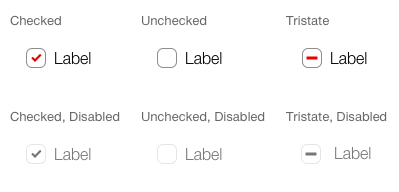
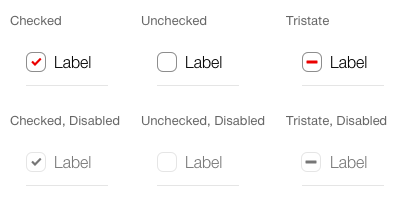
fix checkbox

diff --git a/documentation/elements/checkbox/checkbox-de.md b/documentation/elements/checkbox/checkbox-de.md
@@ -10,6 +10,8 @@
 *   Horizontale Anordnung nur bei zwei bis drei Auswahlmöglichkeiten und kurzen Bezeichnungen.
 *   Der Text kann mehrzeilig sein.
 *   Nebst der eigentlich Checkbox dient auch der gesamte Text als Click-Target.
+* Checkboxen werden immer mit einer Form-Group (Link) gruppiert und sind somit immer auf einem weissen Hintergrund gesetzt.
+* Das letzte Element (Checkbox, volle Breite) innerhalb einer Form-Group hat jeweils keinen Boarder.
 
 ## 4. Ausprägungen und Zustände
 Das Element hat folgende Zustände:
@@ -31,60 +33,48 @@ Das Element hat folgende Ausprägungen:
 ![Darstellung der Checkboxen, volle Breite, default](https://raw.githubusercontent.com/sbb-design-systems/design-system-mobile-documentation/redesign/documentation/elements/checkbox/images/Checkbox_full_width_default.png 'class: image')
 
 ##### Design Spezifikation
-*   [Checked](https://sbb.invisionapp.com/d/main#/console/14051805/313166979/inspect)
-*   [Unchecked](https://sbb.invisionapp.com/d/main#/console/14051805/313166980/inspect)
-*   [Tristate](https://sbb.invisionapp.com/d/main#/console/14051805/313166981/inspect)
-*   [Disabled Checked](https://sbb.invisionapp.com/d/main#/console/14051805/313166979/inspect)
-*   [Disabled Unchecked](https://sbb.invisionapp.com/d/main#/console/14051805/313166980/inspect)
-*   [Disabled Tristate](https://sbb.invisionapp.com/d/main#/console/14051805/313166981/inspect)
+*   [Checked](https://sketch.cloud/s/g5ejr/a/KOGGby#Inspector)
+*   [Unchecked](https://sketch.cloud/s/g5ejr/a/A7qwJ1#Inspector)
+*   [Tristate](https://sketch.cloud/s/g5ejr/a/0EqeGW#Inspector)
+*   [Disabled Checked](https://sketch.cloud/s/g5ejr/a/l0jqA7#Inspector)
+*   [Disabled Unchecked](https://sketch.cloud/s/g5ejr/a/kA9wVl#Inspector)
+*   [Disabled Tristate](https://sketch.cloud/s/g5ejr/a/ooZy80#Inspector)
 
 
 #### 4.1.2 Ohne Icon (vor Label)
 ![Darstellung der Checkboxen, volle Breite, ohne Icon](https://raw.githubusercontent.com/sbb-design-systems/design-system-mobile-documentation/redesign/documentation/elements/checkbox/images/Checkbox_full_width_without_icon.png 'class: image')
 
 ##### Design Spezifikation
-*   [Checked](https://sbb.invisionapp.com/d/main#/console/14051805/313166979/inspect)
-*   [Unchecked](https://sbb.invisionapp.com/d/main#/console/14051805/313166980/inspect)
-*   [Tristate](https://sbb.invisionapp.com/d/main#/console/14051805/313166981/inspect)
-*   [Disabled Checked](https://sbb.invisionapp.com/d/main#/console/14051805/313166979/inspect)
-*   [Disabled Unchecked](https://sbb.invisionapp.com/d/main#/console/14051805/313166980/inspect)
-*   [Disabled Tristate](https://sbb.invisionapp.com/d/main#/console/14051805/313166981/inspect)
+*   [Checked](https://sketch.cloud/s/g5ejr/a/RkEQle#Inspector)
+*   [Unchecked](https://sketch.cloud/s/g5ejr/a/1DrGx8#Inspector)
+*   [Tristate](https://sketch.cloud/s/g5ejr/a/pRJ98J#Inspector)
+*   [Disabled Checked](https://sketch.cloud/s/g5ejr/a/Vp5Z0q#Inspector)
+*   [Disabled Unchecked](https://sketch.cloud/s/g5ejr/a/YKbEMQ#Inspector)
+*   [Disabled Tristate](https://sketch.cloud/s/g5ejr/a/KO5MG2#Inspector)
 
 
 #### 4.1.3 Ohne Call to Action
 ![Darstellung der Checkboxen, volle Breite, ohne Call to Action](https://raw.githubusercontent.com/sbb-design-systems/design-system-mobile-documentation/redesign/documentation/elements/checkbox/images/Checkbox_full_width_without_call_to_action.png 'class: image')
 
 ##### Design Spezifikation
-*   [Checked](https://sbb.invisionapp.com/d/main#/console/14051805/313166979/inspect)
-*   [Unchecked](https://sbb.invisionapp.com/d/main#/console/14051805/313166980/inspect)
-*   [Tristate](https://sbb.invisionapp.com/d/main#/console/14051805/313166981/inspect)
-*   [Disabled Checked](https://sbb.invisionapp.com/d/main#/console/14051805/313166979/inspect)
-*   [Disabled Unchecked](https://sbb.invisionapp.com/d/main#/console/14051805/313166980/inspect)
-*   [Disabled Tristate](https://sbb.invisionapp.com/d/main#/console/14051805/313166981/inspect)
+*   [Checked](https://sketch.cloud/s/g5ejr/a/wqDbrl#Inspector)
+*   [Unchecked](https://sketch.cloud/s/g5ejr/a/q1vP8n#Inspector)
+*   [Tristate](https://sketch.cloud/s/g5ejr/a/Lmx5lE#Inspector)
+*   [Disabled Checked](https://sketch.cloud/s/g5ejr/a/7o90nL#Inspector)
+*   [Disabled Unchecked](https://sketch.cloud/s/g5ejr/a/yEA3lE#Inspector)
+*   [Disabled Tristate](https://sketch.cloud/s/g5ejr/a/91qkoQ#Inspector)
 
 
 #### 4.1.4 Nur Checkbox und Label
 ![Darstellung der Checkboxen, volle Breite, nur Checkbox und Label](https://raw.githubusercontent.com/sbb-design-systems/design-system-mobile-documentation/redesign/documentation/elements/checkbox/images/Checkbox_full_width_label_only.png 'class: image')
 
 ##### Design Spezifikation
-*   [Checked](https://sbb.invisionapp.com/d/main#/console/14051805/313166979/inspect)
-*   [Unchecked](https://sbb.invisionapp.com/d/main#/console/14051805/313166980/inspect)
-*   [Tristate](https://sbb.invisionapp.com/d/main#/console/14051805/313166981/inspect)
-*   [Disabled Checked](https://sbb.invisionapp.com/d/main#/console/14051805/313166979/inspect)
-*   [Disabled Unchecked](https://sbb.invisionapp.com/d/main#/console/14051805/313166980/inspect)
-*   [Disabled Tristate](https://sbb.invisionapp.com/d/main#/console/14051805/313166981/inspect)
-
-
-#### 4.1.5 Ohne Border
-![Darstellung der Checkboxen, volle Breite, ohne Border](https://raw.githubusercontent.com/sbb-design-systems/design-system-mobile-documentation/redesign/documentation/elements/checkbox/images/Checkbox_full_width_without_border.png 'class: image')
-
-##### Design Spezifikation
-*   [Checked](https://sbb.invisionapp.com/d/main#/console/14051805/313166979/inspect)
-*   [Unchecked](https://sbb.invisionapp.com/d/main#/console/14051805/313166980/inspect)
-*   [Tristate](https://sbb.invisionapp.com/d/main#/console/14051805/313166981/inspect)
-*   [Disabled Checked](https://sbb.invisionapp.com/d/main#/console/14051805/313166979/inspect)
-*   [Disabled Unchecked](https://sbb.invisionapp.com/d/main#/console/14051805/313166980/inspect)
-*   [Disabled Tristate](https://sbb.invisionapp.com/d/main#/console/14051805/313166981/inspect)
+*   [Checked](https://sketch.cloud/s/g5ejr/a/P05rxj#Inspector)
+*   [Unchecked](https://sketch.cloud/s/g5ejr/a/gOWpAk#Inspector)
+*   [Tristate](https://sketch.cloud/s/g5ejr/a/8RqlWD#Inspector)
+*   [Disabled Checked](https://sketch.cloud/s/g5ejr/a/2agOxy#Inspector)
+*   [Disabled Unchecked](https://sketch.cloud/s/g5ejr/a/MD5bl9#Inspector)
+*   [Disabled Tristate](https://sketch.cloud/s/g5ejr/a/5lqa1E#Inspector)
 
 
 ### 4.2 Mit Preis
@@ -93,59 +83,50 @@ Das Element hat folgende Ausprägungen:
 
 
 ##### Design Spezifikation
-*   [Checked](https://sbb.invisionapp.com/d/main#/console/14051805/313166979/inspect)
-*   [Unchecked](https://sbb.invisionapp.com/d/main#/console/14051805/313166980/inspect)
-*   [Disabled Checked](https://sbb.invisionapp.com/d/main#/console/14051805/313166979/inspect)
-*   [Disabled Unchecked](https://sbb.invisionapp.com/d/main#/console/14051805/313166980/inspect)
+*   [Checked](https://sketch.cloud/s/g5ejr/a/bJ9lAz#Inspector)
+*   [Unchecked](https://sketch.cloud/s/g5ejr/a/WVrJoA#Inspector)
+*   [Disabled Checked](https://sketch.cloud/s/g5ejr/a/3AqmGd#Inspector)
+*   [Disabled Unchecked](https://sketch.cloud/s/g5ejr/a/rp4gMK#Inspector)
 
 #### 4.2.2 Ohne Icon (vor Label)
 ![Darstellung der Checkboxen, mit Preis, default](https://raw.githubusercontent.com/sbb-design-systems/design-system-mobile-documentation/redesign/documentation/elements/checkbox/images/Checkbox_with_price_without_icon.png 'class: image')
 
 
 ##### Design Spezifikation
-*   [Checked](https://sbb.invisionapp.com/d/main#/console/14051805/313166979/inspect)
-*   [Unchecked](https://sbb.invisionapp.com/d/main#/console/14051805/313166980/inspect)
-*   [Disabled Checked](https://sbb.invisionapp.com/d/main#/console/14051805/313166979/inspect)
-*   [Disabled Unchecked](https://sbb.invisionapp.com/d/main#/console/14051805/313166980/inspect)
+*   [Checked](https://sketch.cloud/s/g5ejr/a/nkz78a#Inspector)
+*   [Unchecked](https://sketch.cloud/s/g5ejr/a/Ql5n0m#Inspector)
+*   [Disabled Checked](https://sketch.cloud/s/g5ejr/a/xLaWVW#Inspector)
+*   [Disabled Unchecked](https://sketch.cloud/s/g5ejr/a/EZ5yzO#Inspector)
 
 #### 4.2.3 Ohne Spar-Icon
 ![Darstellung der Checkboxen, mit Preis, default](https://raw.githubusercontent.com/sbb-design-systems/design-system-mobile-documentation/redesign/documentation/elements/checkbox/images/Checkbox_with_price_without_supersaver_icon.png 'class: image')
 
 
 ##### Design Spezifikation
-*   [Checked](https://sbb.invisionapp.com/d/main#/console/14051805/313166979/inspect)
-*   [Unchecked](https://sbb.invisionapp.com/d/main#/console/14051805/313166980/inspect)
-*   [Disabled Checked](https://sbb.invisionapp.com/d/main#/console/14051805/313166979/inspect)
-*   [Disabled Unchecked](https://sbb.invisionapp.com/d/main#/console/14051805/313166980/inspect)
+*   [Checked](https://sketch.cloud/s/g5ejr/a/jaWKj7#Inspector)
+*   [Unchecked](https://sketch.cloud/s/g5ejr/a/d4QoDl#Inspector)
+*   [Disabled Checked](https://sketch.cloud/s/g5ejr/a/zj0rzy#Inspector)
+*   [Disabled Unchecked](https://sketch.cloud/s/g5ejr/a/Zw9evJ#Inspector)
 
 #### 4.2.4 Nur Checkbox, Label und Preis
 ![Darstellung der Checkboxen, mit Preis, default](https://raw.githubusercontent.com/sbb-design-systems/design-system-mobile-documentation/redesign/documentation/elements/checkbox/images/Checkbox_with_price_label_only.png 'class: image')
 
 
 ##### Design Spezifikation
-*   [Checked](https://sbb.invisionapp.com/d/main#/console/14051805/313166979/inspect)
-*   [Unchecked](https://sbb.invisionapp.com/d/main#/console/14051805/313166980/inspect)
-*   [Disabled Checked](https://sbb.invisionapp.com/d/main#/console/14051805/313166979/inspect)
-*   [Disabled Unchecked](https://sbb.invisionapp.com/d/main#/console/14051805/313166980/inspect)
+*   [Checked](https://sketch.cloud/s/g5ejr/a/JG52az#Inspector)
+*   [Unchecked](https://sketch.cloud/s/g5ejr/a/vwm5aQ#Inspector)
+*   [Disabled Checked](https://sketch.cloud/s/g5ejr/a/40LD2m#Inspector)
+*   [Disabled Unchecked](https://sketch.cloud/s/g5ejr/a/ee9Rpp#Inspector)
 
-#### 4.2.5 Ohne Border
-![Darstellung der Checkboxen, mit Preis, default](https://raw.githubusercontent.com/sbb-design-systems/design-system-mobile-documentation/redesign/documentation/elements/checkbox/images/Checkbox_with_price_without_border.png 'class: image')
-
-
-##### Design Spezifikation
-*   [Checked](https://sbb.invisionapp.com/d/main#/console/14051805/313166979/inspect)
-*   [Unchecked](https://sbb.invisionapp.com/d/main#/console/14051805/313166980/inspect)
-*   [Disabled Checked](https://sbb.invisionapp.com/d/main#/console/14051805/313166979/inspect)
-*   [Disabled Unchecked](https://sbb.invisionapp.com/d/main#/console/14051805/313166980/inspect)
 
 ### 4.3 Dynamische Breite
 ![Darstellung der Checkboxen, dynamische Breite](https://raw.githubusercontent.com/sbb-design-systems/design-system-mobile-documentation/redesign/documentation/elements/checkbox/images/Checkbox_dynamic_width.png 'class: image')
 
 
 ##### Design Spezifikation
-*   [Checked](https://sbb.invisionapp.com/d/main#/console/14051805/313166979/inspect)
-*   [Unchecked](https://sbb.invisionapp.com/d/main#/console/14051805/313166980/inspect)
-*   [Tristate](https://sbb.invisionapp.com/d/main#/console/14051805/313166981/inspect)
-*   [Disabled Checked](https://sbb.invisionapp.com/d/main#/console/14051805/313166979/inspect)
-*   [Disabled Unchecked](https://sbb.invisionapp.com/d/main#/console/14051805/313166980/inspect)
-*   [Disabled Tristate](https://sbb.invisionapp.com/d/main#/console/14051805/313166981/inspect)
+*   [Checked](https://sketch.cloud/s/g5ejr/a/Gv5P98#Inspector)
+*   [Unchecked](https://sketch.cloud/s/g5ejr/a/OA53O2#Inspector)
+*   [Tristate](https://sketch.cloud/s/g5ejr/a/mldLEw#Inspector)
+*   [Disabled Checked](https://sketch.cloud/s/g5ejr/a/Dz57ny#Inspector)
+*   [Disabled Unchecked](https://sketch.cloud/s/g5ejr/a/jaWKjD#Inspector)
+*   [Disabled Tristate](https://sketch.cloud/s/g5ejr/a/d4QoDm#Inspector)
